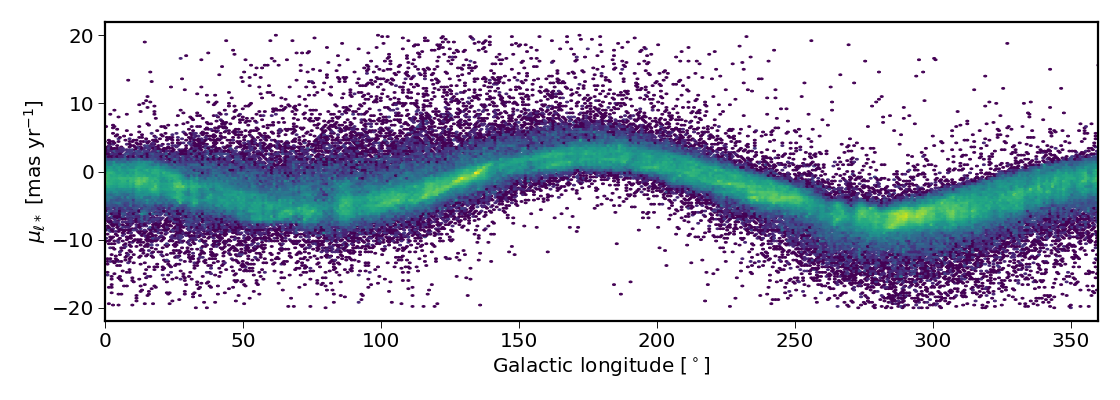
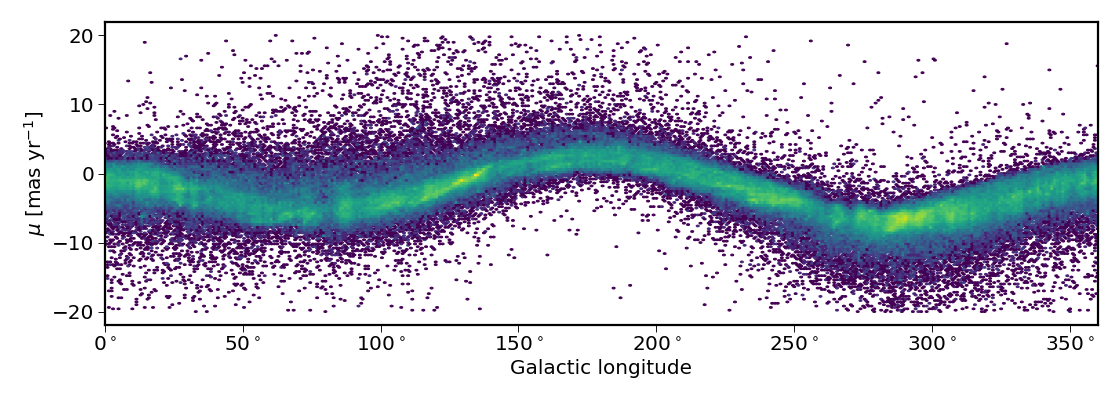
comments by OLC, CR, and TR included

diff --git a/observational-plots.py b/observational-plots.py
@@ -138,8 +138,14 @@ def make_plots(args):
 
     im_lmul = ax_lmul.hexbin(dr3table['l'][sample_filter], dr3table['pml'][sample_filter], 
                              gridsize=[360,100], mincnt=1, bins='log', extent=[0,360,-20,20])
-    ax_lmul.set_xlabel(r'Galactic longitude [$^\circ$]')
-    ax_lmul.set_ylabel(r'$\mu_{\ell*}$ [mas yr$^{-1}$]')
+    ax_lmul.set_xlabel(r'Galactic longitude')
+    ax_lmul.xaxis.set_major_formatter('${x:.0f}^\circ$')
+    if args['simpleLang']:
+        ax_lmul.set_ylabel(r'$\mu$ [mas yr$^{-1}$]')
+        #ax_lmul.set_ylabel(r'Speed on the sky $\longrightarrow$')
+        #ax_lmul.tick_params(left=False, labelleft=False)
+    else:
+        ax_lmul.set_ylabel(r'$\mu_{\ell*}$ [mas yr$^{-1}$]')
     ax_lmul.set_xlim(0,360)
 
     plt.savefig('img/'+name+'star_pml_vs_galon.png')
@@ -185,6 +191,7 @@ def parseCommandLineArguments():
     """
     parser = argparse.ArgumentParser(description="""Observational plots to accompany animation""")
     parser.add_argument("--type", type=str, default='B', help="""Source type to plot: O, B, A, F, G, K, M, giants""")
+    parser.add_argument("-l", action="store_true", dest="simpleLang", help="Simplify language on the axes")
     parser.add_argument("-p", action="store_true", dest="pdfOutput", help="Make PDF plots")
     parser.add_argument("-b", action="store_true", dest="pngOutput", help="Make PNG plots")
     cmdargs = vars(parser.parse_args())

diff --git a/intro-frames.py b/intro-frames.py
@@ -53,6 +53,8 @@ def make_frames():
     ax.imshow(milkyway, origin='upper')
     ax.axis('off')
     ax.scatter(250, 480, color='C1', s=120)
+    ax.text(220, 480, "Sun", ha='right', va='center', color='w', fontsize=16)
+    ax.text(480, 900, "Milky way face-on view - artist's impression", ha='center', color='w', fontsize=16)
     startAngleDeg = 10
     endAngleDeg=70
     startAngle = np.deg2rad(startAngleDeg)

diff --git a/README.md b/README.md
@@ -1,3 +1,11 @@
 # Proper motions in the disk of the Milky Way
 
 A simple animation is made with [Processing](https://processing.org/) which illustrates how the pattern of proper motions in galactic longitude, plotted as a function of longitude, arises from the differential rotation of the Milky Way's disk. This is part of the outreach for [Gaia DR3](https://www.cosmos.esa.int/web/gaia/data-release-3) in connection with the paper _Gaia Data Release 3: Golden Sample of Astrophysical Parameters Gaia Collaboration, Creevey, O.L., et al_.
+
+## Reproducing the video
+
+1. Download the necessary data (TODO: describe how)
+2. Run `python observational-plots.py -l` and then do `cp img/B_star_pml_vs_galon.png`
+3. Run `python intro-frames.py`
+4. Run the Processing script and do not forget to uncomment the line `saveFrame("../frames/frame-######.png");`
+5. Run `./makevideo.sh`
